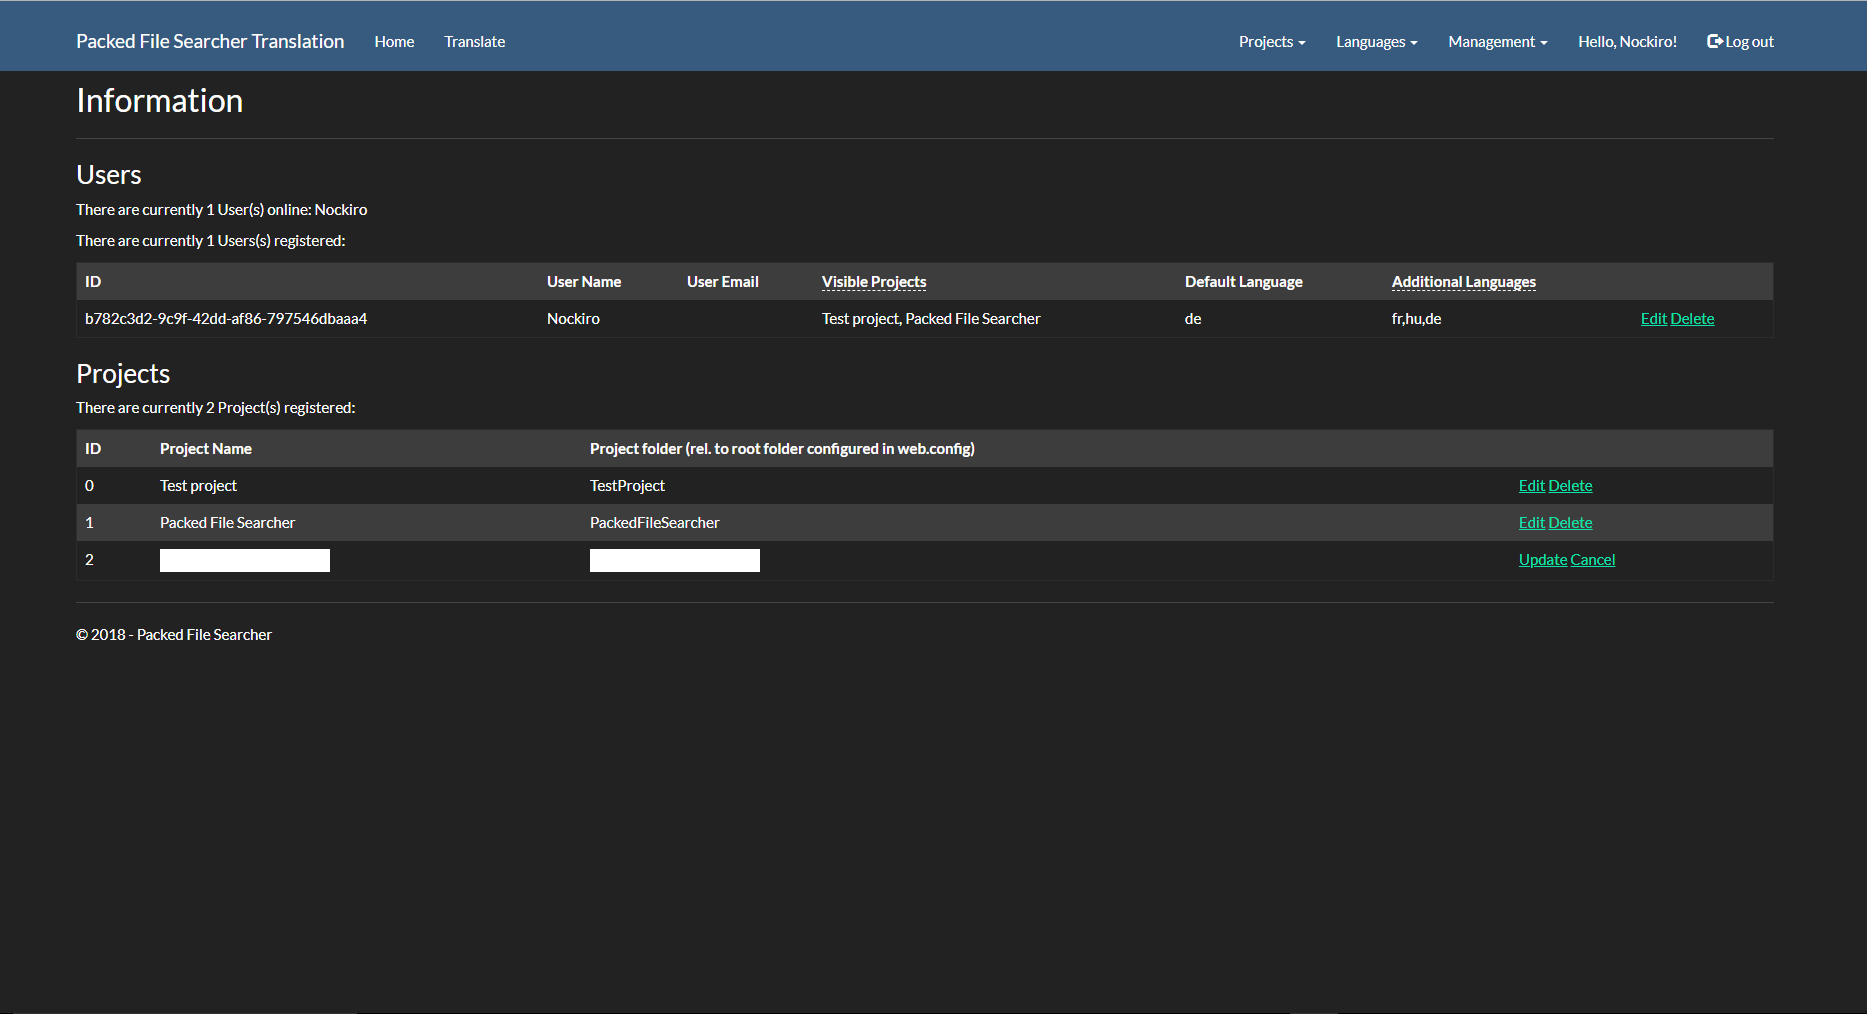
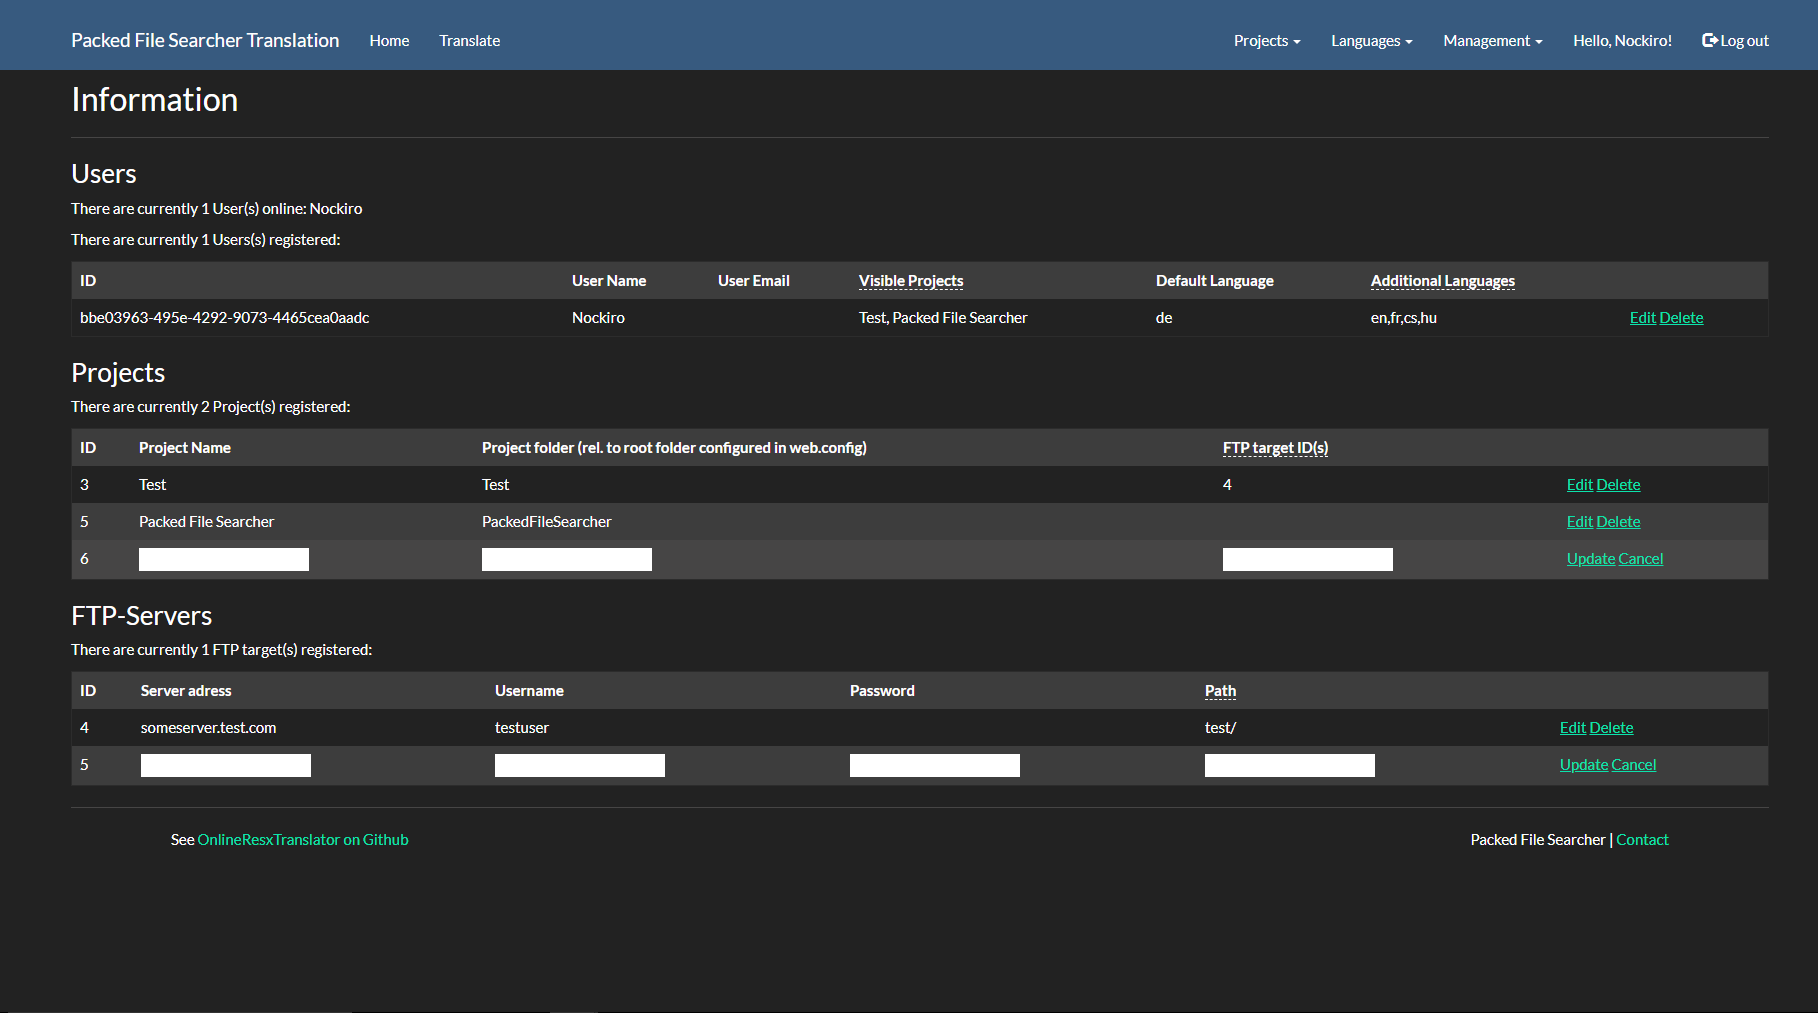
+ added database storage for ftp targets

diff --git a/OnlineResxTranslator/App_Code/ProjectHelper.cs b/OnlineResxTranslator/App_Code/ProjectHelper.cs
@@ -45,7 +45,14 @@ public class ProjectHelper
 
         DataTable projectList = targetTable;
         foreach (DataRow r in projectList.Rows)
-            list.Add(new FTPTarget() { ID = (int)r["id"], Username = (string)r["username"], Password = (string)r["password"], Path = (string)r["path"] });
+            list.Add(new FTPTarget()
+            {
+                ID = (int)r["id"],
+                Server = (string)r["server"],
+                Username = (string)r["username"],
+                Password = (string)r["password"],
+                Path = (string)r["path"]
+            });
 
         return list;
     }
@@ -238,79 +245,45 @@ public class ProjectHelper
 
     public static bool FTPUploadEnabled(ProjectInfo project)
     {
-        string Filename = ConfigurationManager.AppSettings["ProjectDirectory"].ToString() + project.Name + ".xml";
-
-        if (File.Exists(Filename))
-        {
-            XmlDocument ProjectFile = XMLFile.GetXMLDocument(Filename);
-            if (ProjectFile.SelectNodes("/project/ftp/server").Count == 0)
-                return false;
-
-            else return true;
-        }
-        else return false;
-
+        return getFTPTargets(project).Count > 0;
     }
 
-    public static bool FTPUpload(ProjectInfo project, string fullFilename)
+    public static bool FTPUpload(ProjectInfo project, string fullFilename, string language)
     {
-        string XMLFilename = ConfigurationManager.AppSettings["ProjectDirectory"].ToString() + project.Name + ".xml";
-
-        XmlDocument ProjectFile = XMLFile.GetXMLDocument(XMLFilename);
-
-        string Language = fullFilename.Split(".".ToCharArray())[fullFilename.Split(".".ToCharArray()).GetUpperBound(0) - 1];
-        string Filename = fullFilename.Split("\\".ToCharArray())[fullFilename.Split("\\".ToCharArray()).GetUpperBound(0)];
-
-        foreach (XmlNode FTPNode in ProjectFile.SelectNodes("/project/ftp"))
+        foreach (FTPTarget ftpTarget in getFTPTargets(project))
         {
-            if (FTPNode.SelectSingleNode("server") == null)
-                throw new Exception("FTP-Upload not possible: Server node in XML file not found!");
-            else
             {
-                string Servername = FTPNode.SelectSingleNode("server").InnerText;
-                if (Servername.Length == 0)
-                    throw new Exception("FTP-Upload not possible: Server node in XML file not properly defined!");
-                else
+                string UploadPath = ftpTarget.Path;
+                if (UploadPath.Length > 0)
                 {
-                    string UploadPath = FTPNode.SelectSingleNode("path").InnerText;
-                    if (UploadPath.Length > 0)
-                    {
-                        if (UploadPath.Contains("%LANG%"))
-                            UploadPath = UploadPath.Replace("%LANG%", Language);
+                    UploadPath = UploadPath.Replace("%LANG%", language);
 
-                        if (!UploadPath.EndsWith("/")) UploadPath += "/";
-                    }
-                    else UploadPath = "/";
-
-                    string Username = FTPNode.SelectSingleNode("username").InnerText;
-                    string Password = FTPNode.SelectSingleNode("password").InnerText;
-
-
-                    // Get the object used to communicate with the server.
-                    FTP myFtp = new FTP(Servername, Username, Password);
-
-                    List<string> ExistingFiles;
-                    try
-                    {
-                        ExistingFiles = myFtp.directoryListDetailed(UploadPath).ToList();
-                    }
-                    catch (Exception)
-                    {
-                        myFtp.createDirectory(UploadPath);
-                        ExistingFiles = myFtp.directoryListDetailed(UploadPath).ToList();
-                    }
-
-                    if (ExistingFiles.Contains(Filename))
-                        myFtp.delete(UploadPath + Filename);
-
-                    myFtp.upload(UploadPath + Filename, fullFilename);
+                    if (!UploadPath.EndsWith("/")) UploadPath += "/";
                 }
+                else UploadPath = "/";
+
+                // Get the object used to communicate with the server.
+                FTP myFtp = new FTP(ftpTarget.Server, ftpTarget.Username, ftpTarget.Password);
+
+                List<string> ExistingFiles;
+                try
+                {
+                    ExistingFiles = myFtp.directoryListDetailed(UploadPath).ToList();
+                }
+                catch (Exception)
+                {
+                    myFtp.createDirectory(UploadPath);
+                    ExistingFiles = myFtp.directoryListDetailed(UploadPath).ToList();
+                }
+
+                /*  if (ExistingFiles.Contains(Filename))
+                      myFtp.delete(UploadPath + Filename);*/
+
+                myFtp.upload(UploadPath + Path.GetFileName(fullFilename), fullFilename);
             }
         }
         return false;
     }
-
-
 
     public class ProjectInfo
     {
@@ -322,6 +295,7 @@ public class ProjectHelper
     public class FTPTarget
     {
         public int ID { get; set; }
+        public string Server { get; set; }
         public string Username { get; set; }
         public string Password { get; set; }
         public string Path { get; set; }

diff --git a/OnlineResxTranslator/translate.aspx.cs b/OnlineResxTranslator/translate.aspx.cs
@@ -161,7 +161,7 @@ partial class _Translate : PageBase
 
             if (Project == null || Language == null)
             {
-                // Session["ErrorMessage"] = "Session expired. Could not read Project or Language. Please login!";
+                showError("Session expired. Could not read Project or Language. Please login!");
                 // TODO: Save Values here for relog (like HttpCookie myCookie = new HttpCookie("savedValues");)
 
                 Response.Redirect("/Account/Login.aspx?re=se&ReturnUrl=/translate");
@@ -251,9 +251,7 @@ partial class _Translate : PageBase
 
             // No updates made. No need to save file, but recalculate the percentage in case the file changed externally
             if (Updates == 0)
-            {
                 XMLFile.ComputePercentage(Project, Language, Convert.ToString(Session["SelectedFilename"]));
-            }
             else
             {
                 TranslatedFile.Save(TargetFilename);
@@ -265,14 +263,14 @@ partial class _Translate : PageBase
                 //Session["GlobalMessage"] = "File '" + TargetFilename.Split("\\".ToCharArray())[TargetFilename.Split("\\".ToCharArray()).GetUpperBound(0)] + "' saved sucessfully!";
 
                 if (ProjectHelper.FTPUploadEnabled(Project))
-                    ProjectHelper.FTPUpload(Project, TargetFilename);
+                    ProjectHelper.FTPUpload(Project, TargetFilename, Language);
 
                 TranslatedFile.Save(TargetFileNameForGen);
 
                 if (ProjectHelper.FTPUploadEnabled(Project))
                     try
                     {
-                        ProjectHelper.FTPUpload(Project, TargetFilename);
+                        ProjectHelper.FTPUpload(Project, TargetFilename, Language);
                     }
                     catch (Exception ex)
                     {

diff --git a/OnlineResxTranslator/Admin/Info.aspx.cs b/OnlineResxTranslator/Admin/Info.aspx.cs
@@ -28,8 +28,8 @@ public partial class Admin_Info : PageBase
 
         if (!IsPostBack)
         {
-            ShowProjectData();
             ShowUserData();
+            ShowProjectData();
             ShowFTPData();
         }
     }
@@ -143,8 +143,9 @@ public partial class Admin_Info : PageBase
                             @"ftps = STUFF((
 
                                 SELECT CONVERT(NVARCHAR, ', ')  + CONVERT(NVARCHAR,TrProjectFTPTargets.TargetID)
-                                FROM TrProjects, TrProjectFTPTargets, TrFTPTargets
-                                WHERE TrProjects.id = TrProjectFTPTargets.ProjID
+								 
+                                FROM TrProjectFTPTargets
+                                WHERE TrProjects.id = TrProjectFTPTargets.ProjID 
 
                                 FOR XML PATH(''), TYPE).value('.', 'NVARCHAR(MAX)'), 1, 1, '')");
 
@@ -199,7 +200,7 @@ public partial class Admin_Info : PageBase
         }
 
         // its faster code to delete all targets of that projecs and read the ones given in the list
-        sqlhelper.DeleteRow("TrProjectFTPTargets", "ProjID = '" + id + "'");
+        sqlhelper.DeleteRow("TrProjectFTPTargets", "ProjID = " + id);
         // update ftp target assignment table
         if (ftp != "")
             foreach (string ftpTarget in ftp.Split(','))

diff --git a/OnlineResxTranslator/App_Code/FTP.cs b/OnlineResxTranslator/App_Code/FTP.cs
@@ -85,7 +85,7 @@ public class FTP {
             /* Establish Return Communication with the FTP Server */
             ftpStream = ftpRequest.GetRequestStream();
             /* Open a File Stream to Read the File for Upload */
-            FileStream localFileStream = new FileStream(localFile, FileMode.Open, FileAccess.Read);
+            FileStream localFileStream = new FileStream(localFile, FileMode.OpenOrCreate, FileAccess.ReadWrite);
             /* Buffer for the Downloaded Data */
             byte[] byteBuffer = new byte[bufferSize];
             int bytesSent = localFileStream.Read(byteBuffer, 0, bufferSize);
